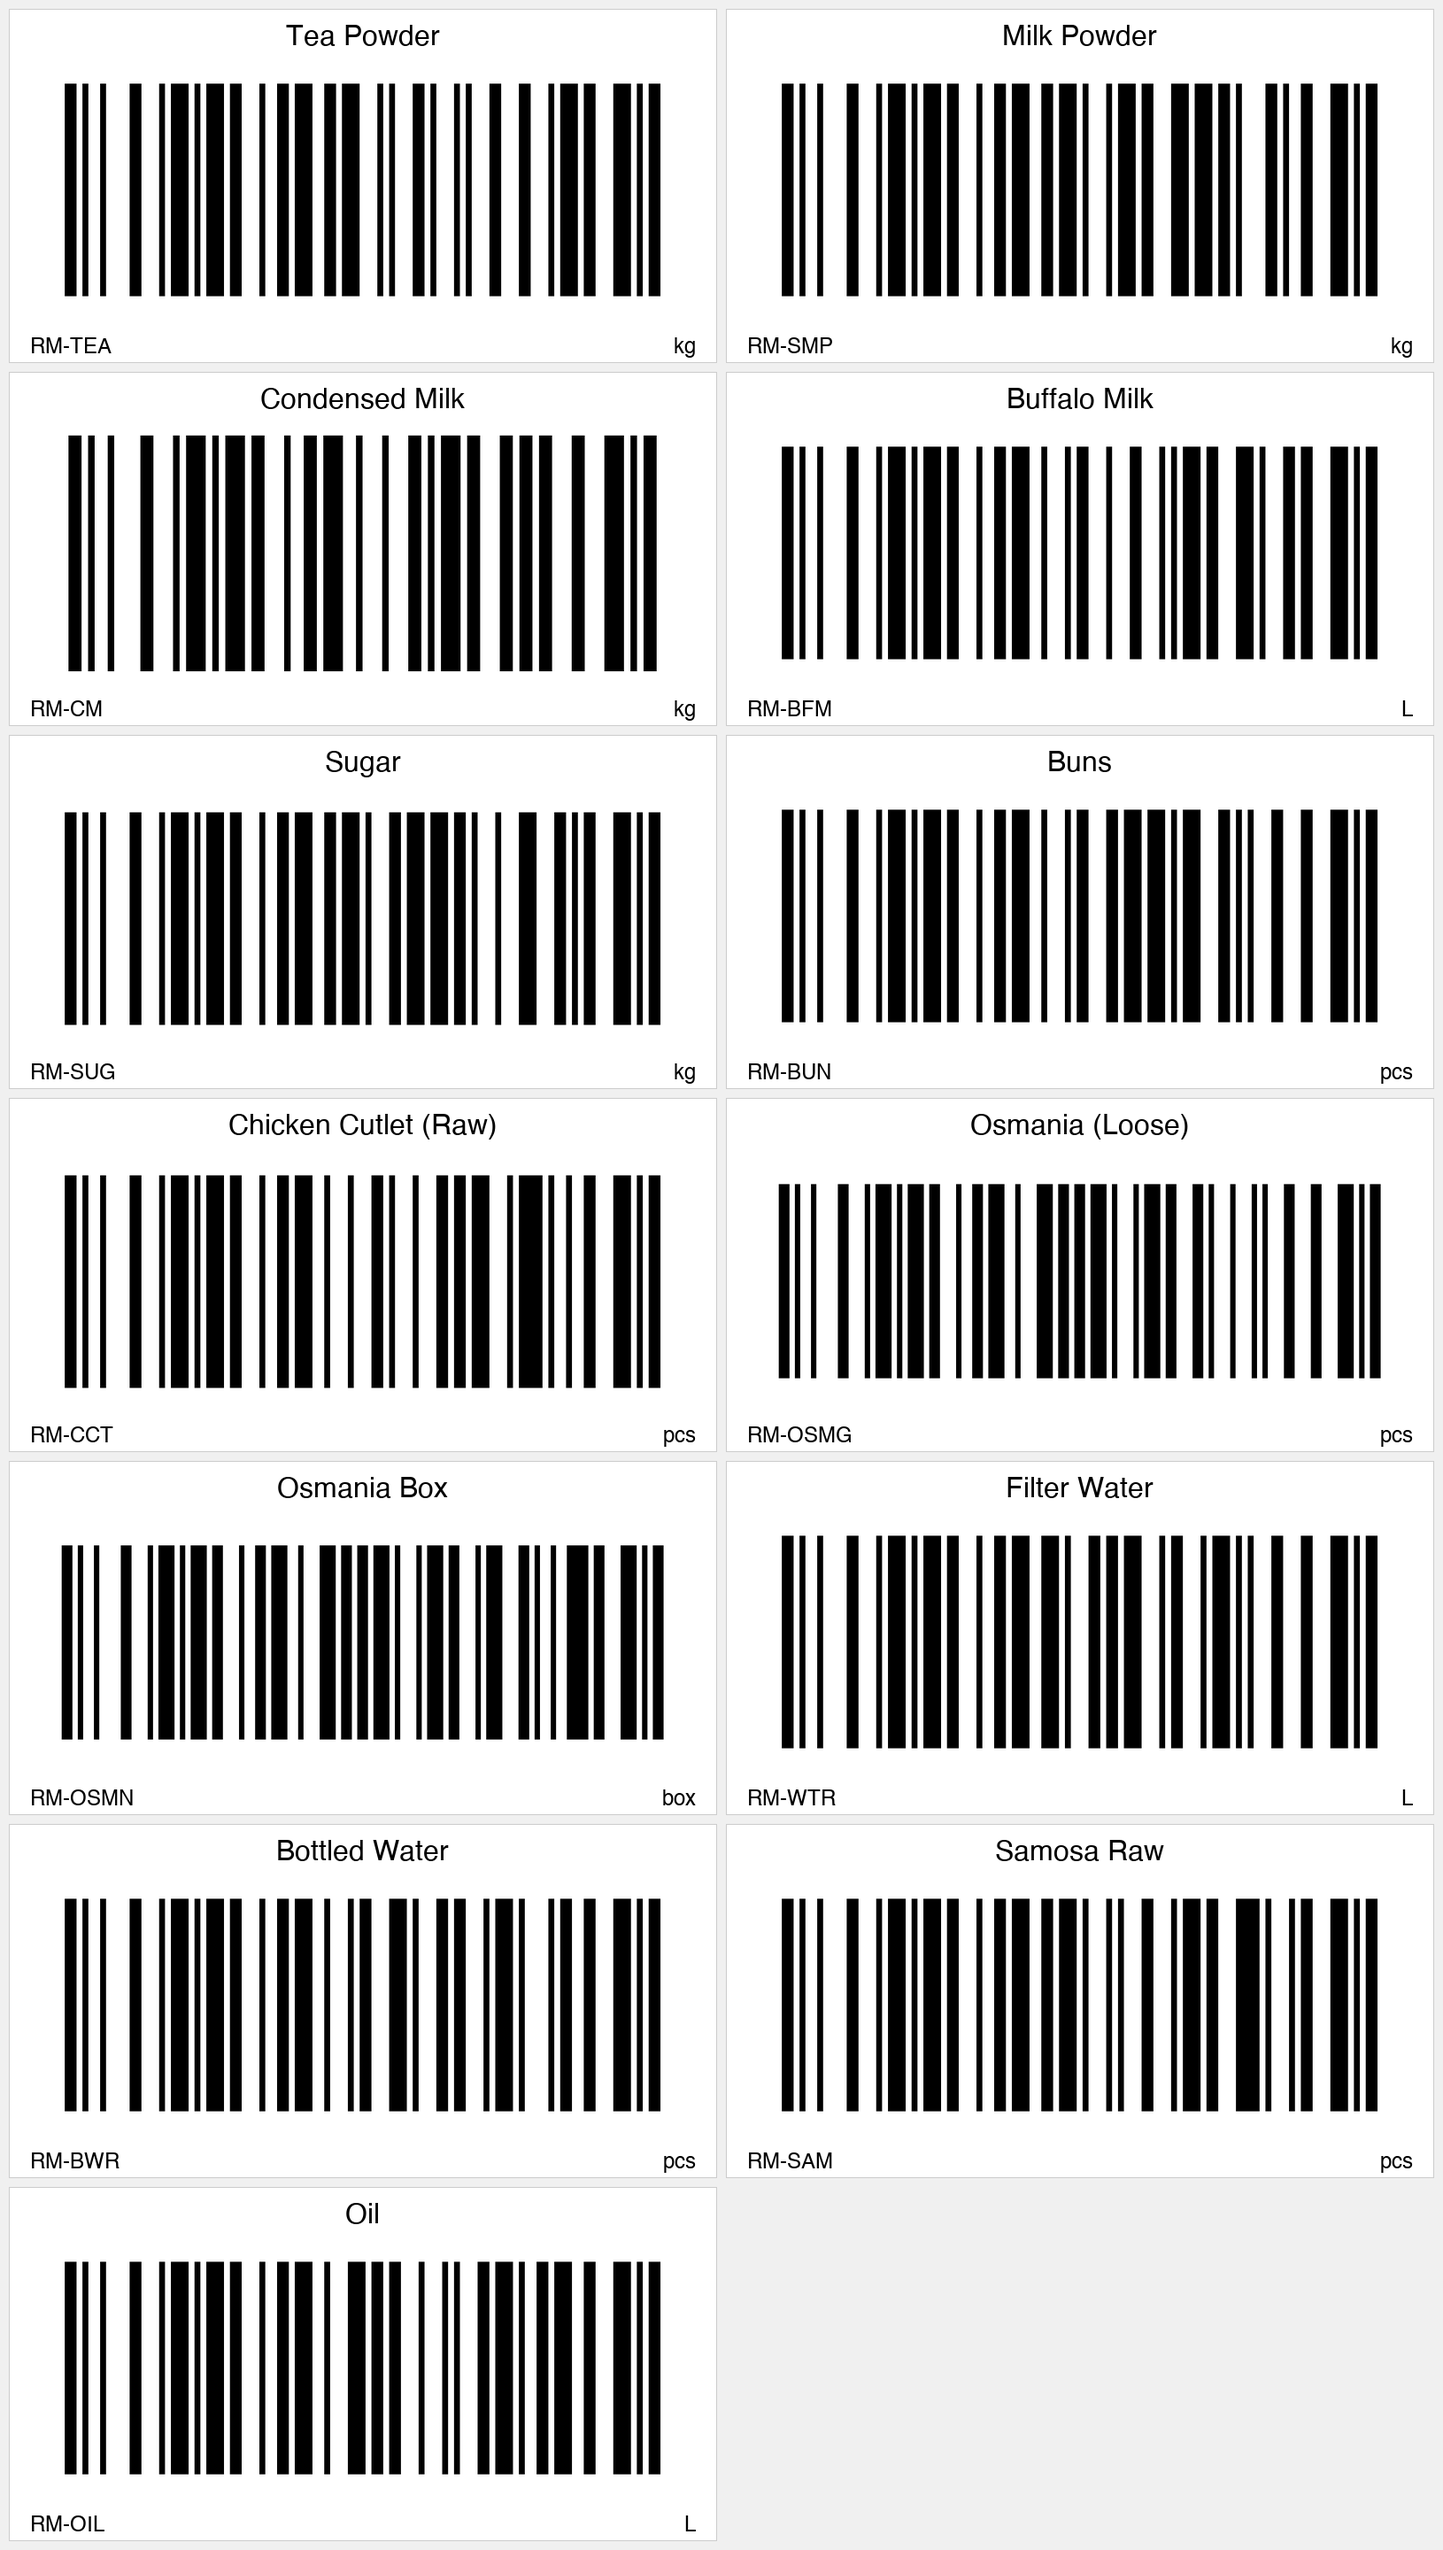
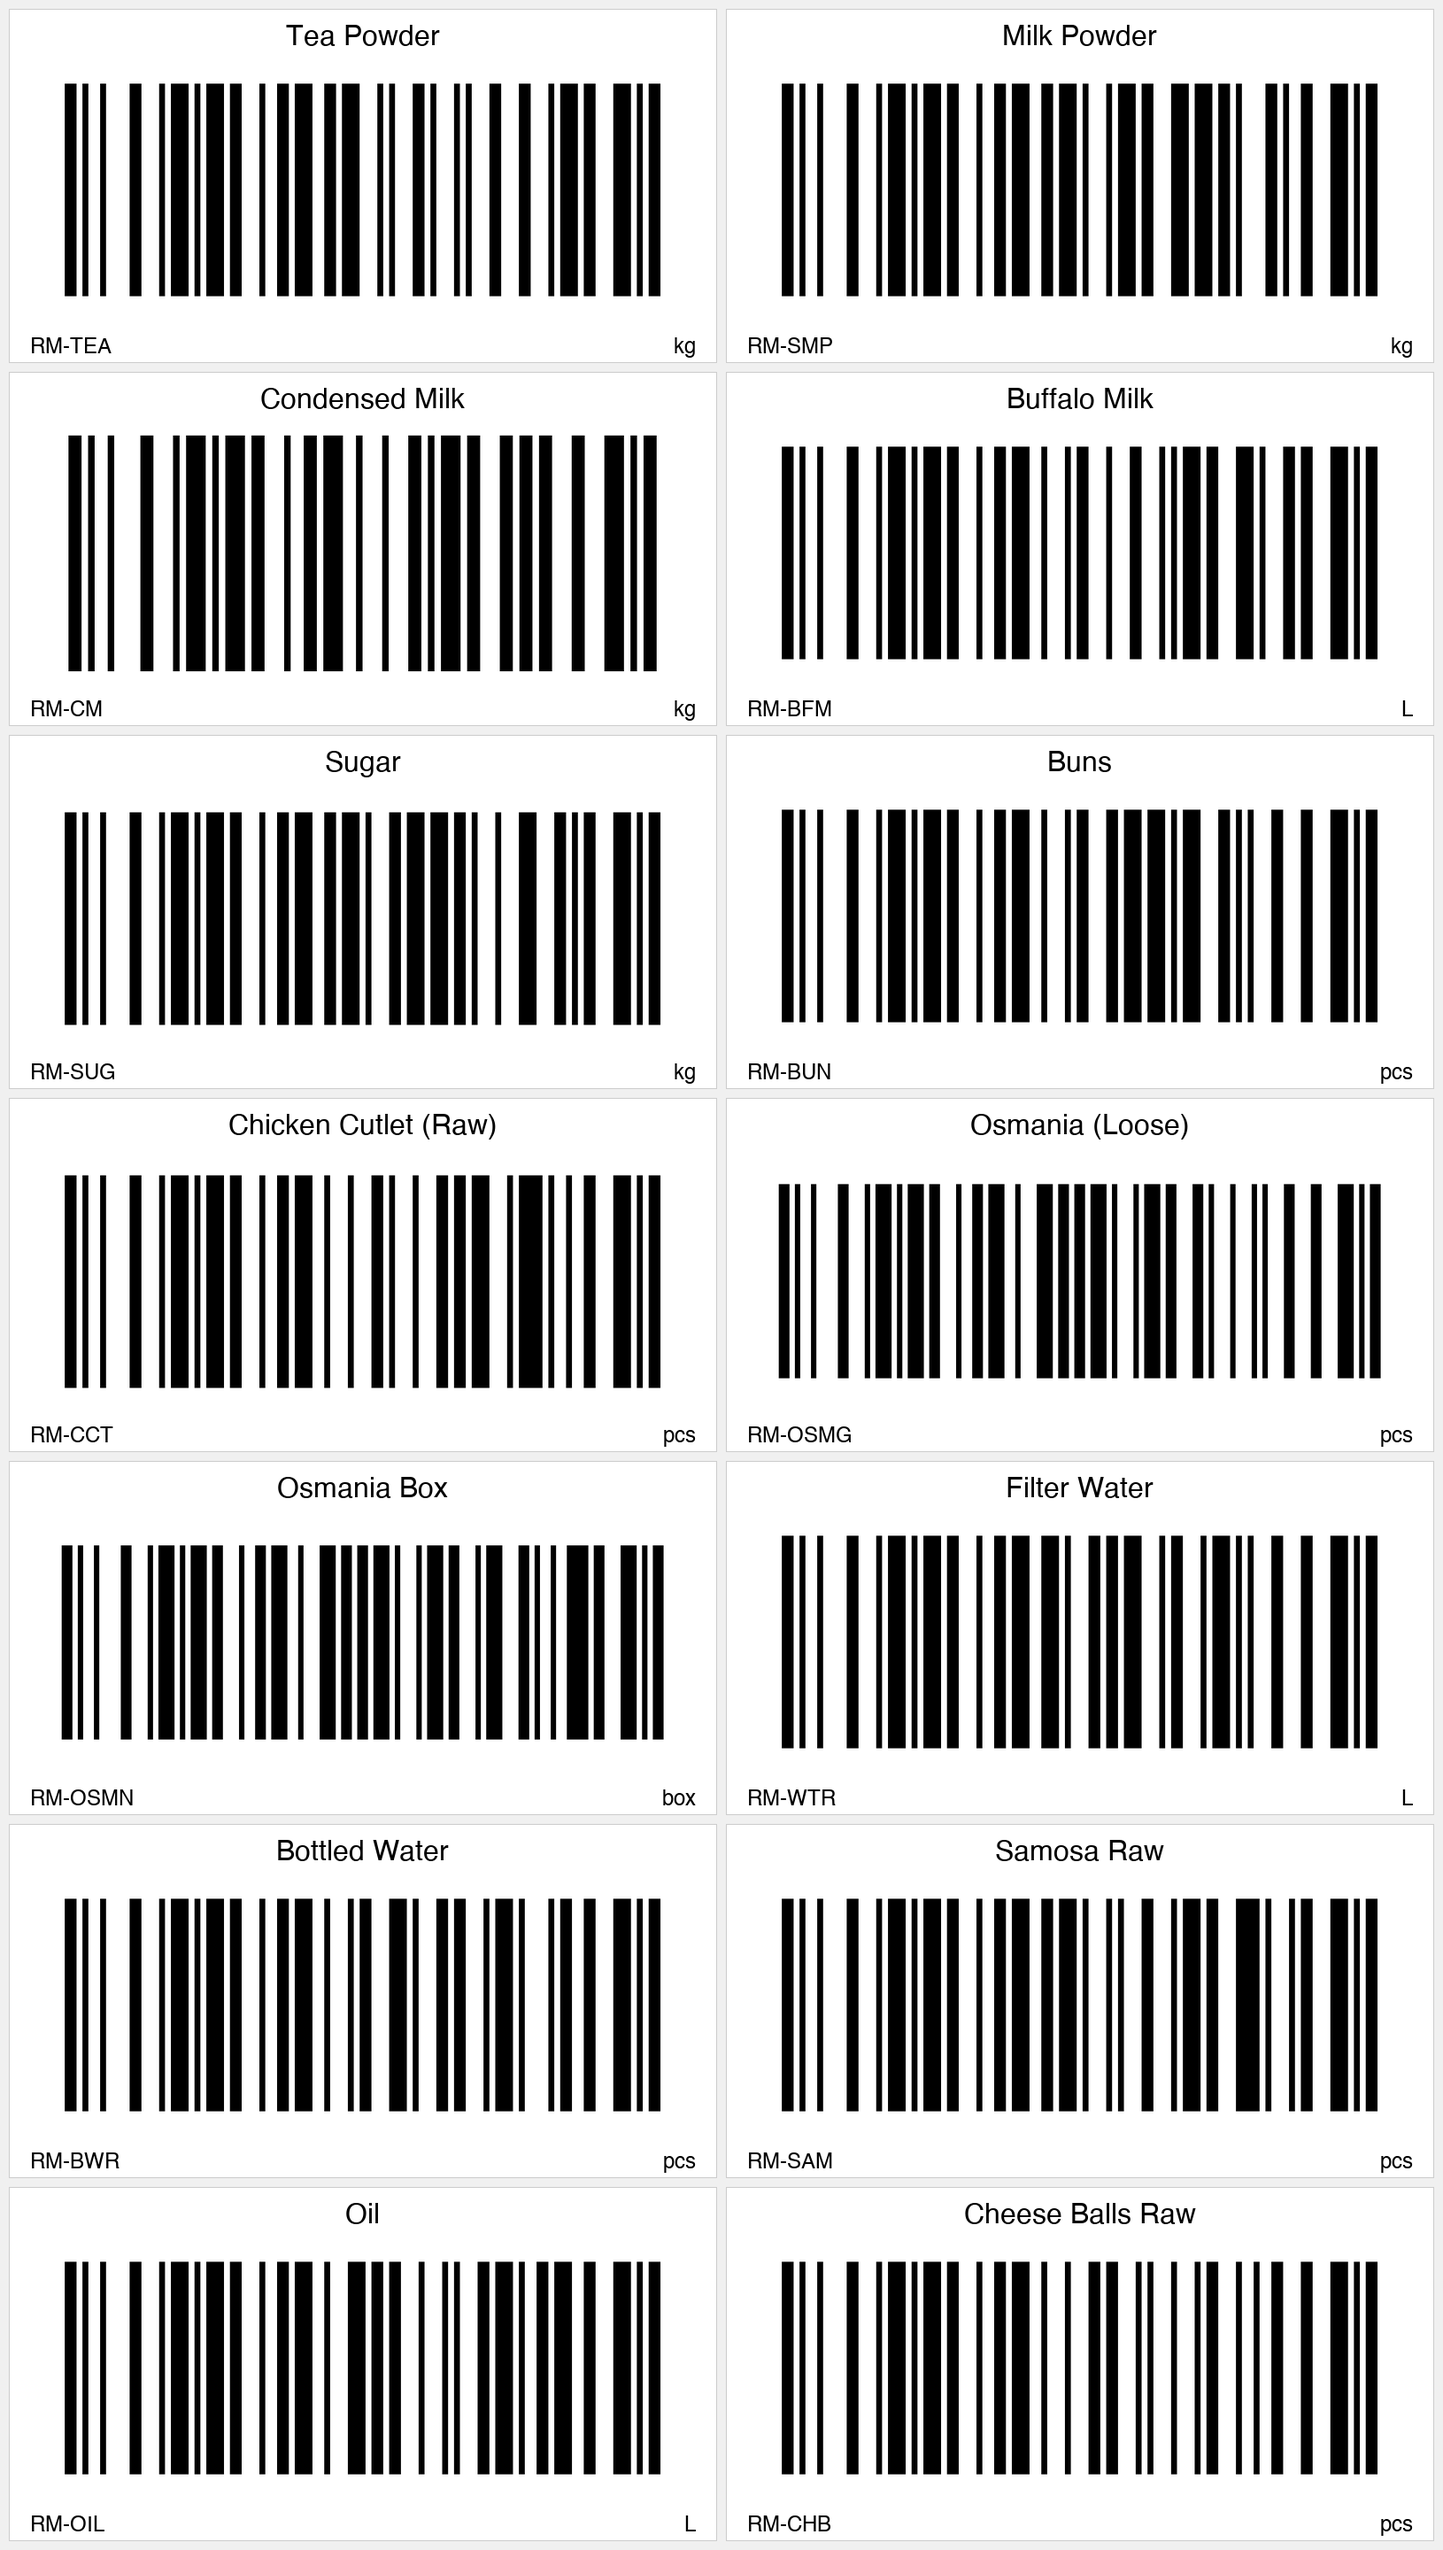
Add Cheese Balls to POS, fix Niloufer Osmania visibility, update mappings
Odoo changes:
- Renamed "Osmania Biscuit Box (500g)" → "Niloufer Osmania Biscuit 500 grams"
  and assigned to Snacks POS category (was hidden due to empty pos_categ_ids)
- Created Cheese Balls POS product (NCH-CB, ₹50, Snacks)
- Created Cheese Balls Raw material (RM-CHB, storable, barcode)
- Pyaaz Samosa already active — no changes needed

Codebase:
- consumption.js: Added Cheese Balls → [Cheese Balls Raw, Oil] mapping,
  updated Osmania Box name to match Odoo
- Generated RM-CHB barcode label (14 total labels)

Changed region(s): [[0.5215, 0.8438, 0.9816, 1.0]]

diff --git a/functions/api/consumption.js b/functions/api/consumption.js
@@ -23,8 +23,9 @@ export async function onRequest(context) {
     1094: {name: 'Water',                    code: 'NCH-WTR',   materials: [1107]},
     1102: {name: 'Nawabi Special Coffee',    code: 'NCH-NSC',   materials: [1095, 1097, 1112, 1101]},
     1103: {name: 'Lemon Tea',               code: 'LT',        materials: [1098, 1097, 1101]},
-    1111: {name: 'Osmania Biscuit Box 500g', code: 'NCH-OBBOX', materials: [1110]},
+    1111: {name: 'Niloufer Osmania Biscuit 500g', code: 'NCH-OBBOX', materials: [1110]},
     1115: {name: 'Pyaaz Samosa',            code: 'NCH-PS',    materials: [1113, 1114]},
+    1117: {name: 'Cheese Balls',            code: 'NCH-CB',    materials: [1116, 1114]},
   };
 
   const RAW_MATERIALS = {
@@ -41,6 +42,7 @@ export async function onRequest(context) {
     1112: {name: 'Condensed Milk',          code: 'RM-CM',   uom: 'kg'},
     1113: {name: 'Samosa Raw',              code: 'RM-SAM',  uom: 'Units'},
     1114: {name: 'Oil',                     code: 'RM-OIL',  uom: 'L'},
+    1116: {name: 'Cheese Balls Raw',        code: 'RM-CHB',  uom: 'Units'},
   };
 
   // Picking type IDs

diff --git a/labels/index.html b/labels/index.html
@@ -23,4 +23,5 @@ p{color:#888;text-align:center;font-size:13px}
 <a href="RM-BWR.png">Bottled Water<img src="RM-BWR.png"></a>
 <a href="RM-SAM.png">Samosa Raw<img src="RM-SAM.png"></a>
 <a href="RM-OIL.png">Oil<img src="RM-OIL.png"></a>
+<a href="RM-CHB.png">Cheese Balls Raw<img src="RM-CHB.png"></a>
 </body></html>

diff --git a/labels/generate_labels.py b/labels/generate_labels.py
@@ -41,6 +41,7 @@ PRODUCTS = [
     ("Bottled Water",          "RM-BWR",  "pcs"),
     ("Samosa Raw",             "RM-SAM",  "pcs"),
     ("Oil",                    "RM-OIL",  "L"),
+    ("Cheese Balls Raw",       "RM-CHB",  "pcs"),
 ]
 
 
